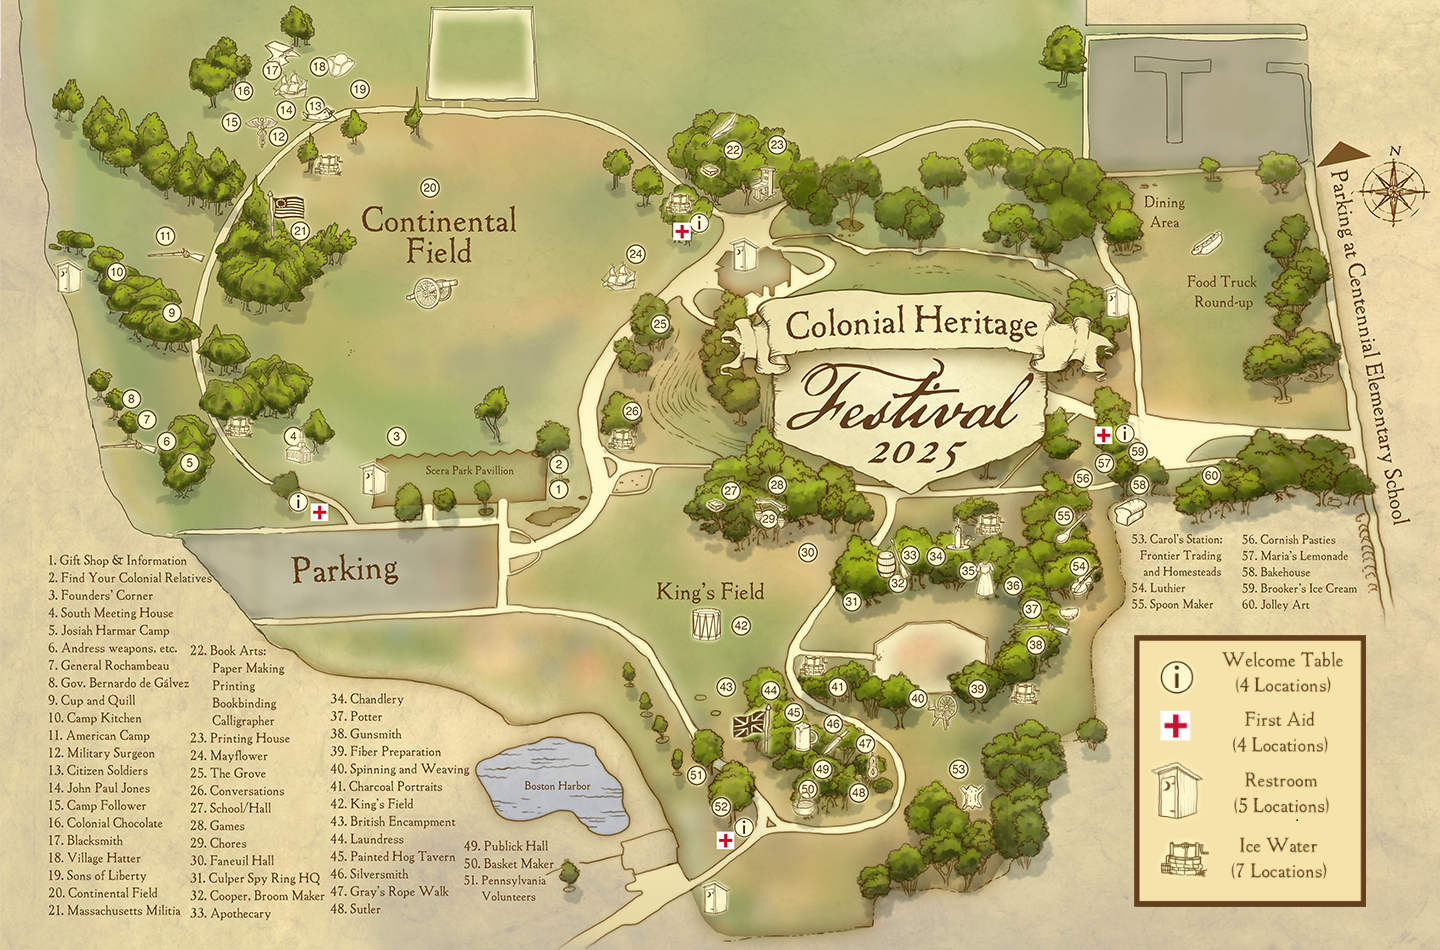
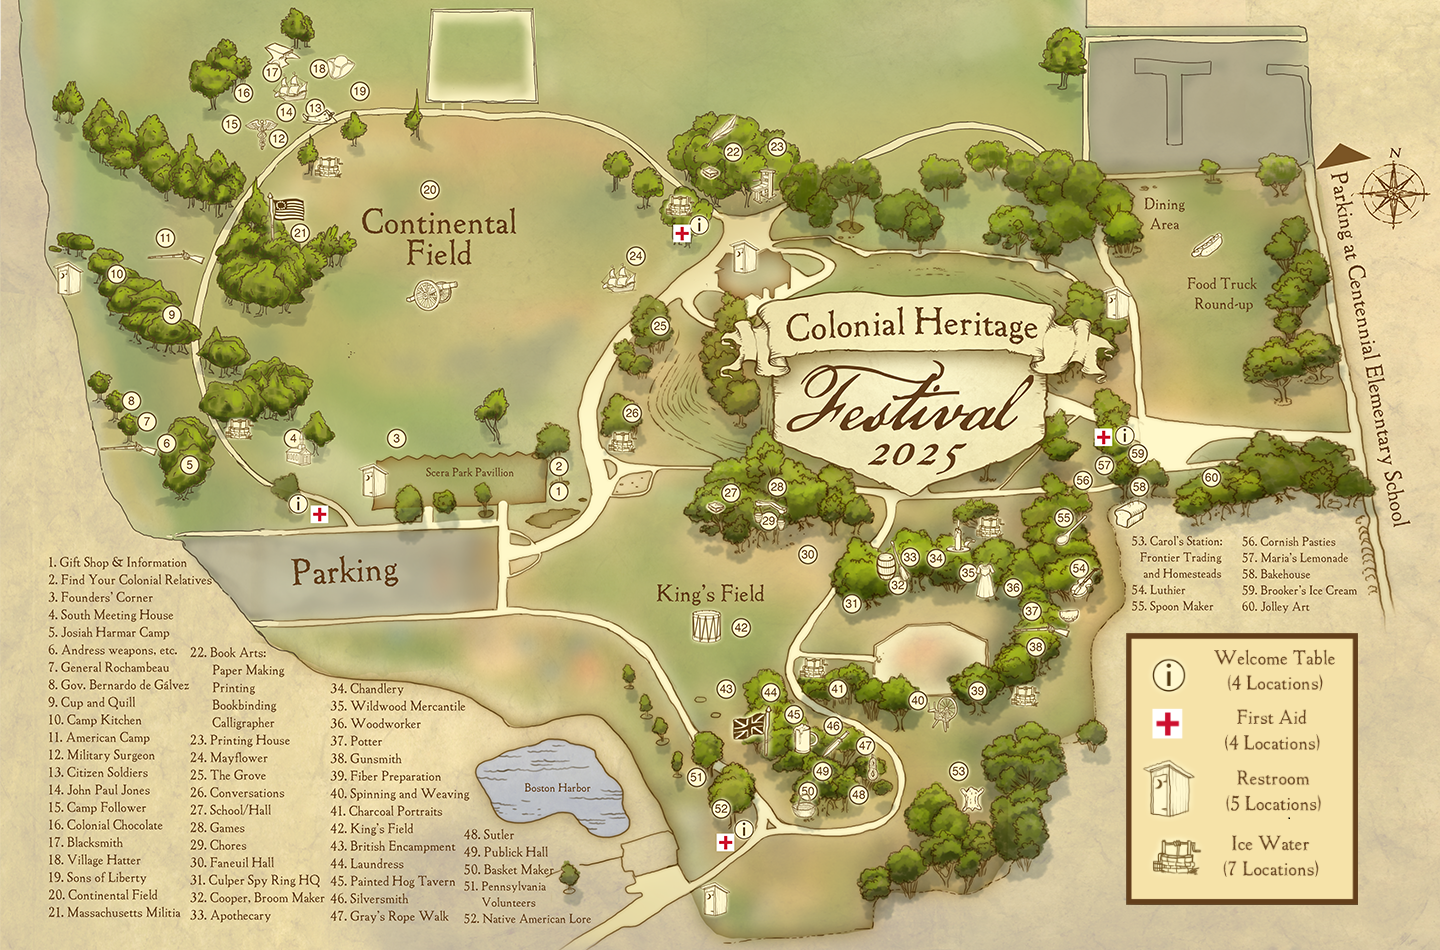
updated

diff --git a/index.html b/index.html
@@ -11,66 +11,66 @@
     <script>
 function make_map(){
 
-add_area('46,551,192,565','480','557','Gift Shop & Information')					
-add_area('46,568,213,584','455','556','Find Your Colonial Relatives')					
-add_area('48,586,160,602','428','395','Founders’ Corner')					
-add_area('47,604,175,618','428','292','South Meeting House')					
-add_area('46,620,172,637','454','188','Josiah Harmar Camp')					
-add_area('47,638,181,656','433','167','Andress weapons, etc.')					
-add_area('45,655,174,672','410','146','General Rochambeau')					
-add_area('47,671,193,689','390','132','Gov. Bernardo de Gálvez')					
-add_area('46,691,140,705','303','170','Cup and Quill')					
-add_area('46,708,146,725','264','116','Camp Kitchen')					
-add_area('45,725,153,743','227','164','American Camp')					
-add_area('46,744,156,759','128','278','Military Surgeon')					
-add_area('46,760,151,778','98','314','Citizen Soldiers')					
-add_area('47,779,163,795','101','285','John Paul Jones')					
-add_area('47,795,152,811','112','232','Camp Follower')					
-add_area('45,814,167,829','82','241','Colonial Chocolate')					
-add_area('46,831,131,847','61','271','Blacksmith')					
-add_area('45,849,146,864','59','318','Village Hatter')					
-add_area('45,866,152,882','82','359','Sons of Liberty')					
-add_area('45,884,163,898','248','374','Continental Field')					
-add_area('46,901,130,918','134','687','Bookbinder')					
-add_area('202,661,300,677','127','749','Paper Making')					
-add_area('203,678,286,694','166','764','Print Shop')					
-add_area('204,697,285,712','245','636','Mayflower')					
-add_area('202,712,289,730','315','658','The Grove')					
-add_area('204,730,305,747','402','632','Conversations')					
-add_area('204,748,292,763','482','730','School/Hall')					
-add_area('202,765,265,779','476','776','Chores')					
-add_area('204,784,264,796','509','768','Games')					
-add_area('204,800,295,814','543','807','Faneuil Hall')					
-add_area('202,818,340,835','592','850','Culper Spy Ring HQ')					
-add_area('204,837,345,851','574','895','Cooper, Broom Maker')					
-add_area('204,854,291,870','546','910','Apothecary')					
-add_area('203,869,285,887','549','935','Chandlery')					
-add_area('203,888,344,904','562','969','Wildwood Mercantile')					
-add_area('200,906,304,921','576','1014','Woodworker')					
-add_area('354,681,415,697','600','1032','Potter')					
-add_area('355,700,431,715','636','1035','Gunsmith')					
-add_area('354,714,471,730','681','975','Fiber Preparation')					
-add_area('352,734,496,751','689','917','Spinning and Weaving')					
-add_area('352,750,469,767','679','837','Charcoal Portraits')					
-add_area('356,767,445,783','617','741','King\'s Field')					
-add_area('353,786,483,802','677','726','British Encampment')					
-add_area('355,801,436,818','682','770','Laundress')					
-add_area('353,820,485,836','705','793','Painted Hog Tavern')					
-add_area('352,839,442,853','714','834','Silversmith')					
-add_area('353,855,480,872','734','865','Gray\'s Rope Walk')					
-add_area('355,871,442,889','768','850','Calligrapher')					
-add_area('353,889,446,905','762','821','Publick Hall')					
-add_area('354,907,450,926','781','807','Basket Maker')					
-add_area('1129,525,1183,540','766','697','Sutler')					
-add_area('1130,541,1225,558','798','720','Native Lore')					
-add_area('1130,559,1227,607','758','958','Carol\'s Station: Frontier Trading and Homesteads')					
-add_area('1129,605,1192,621','557','1078','Luthier')					
-add_area('1247,523,1341,539','507','1063','Spoon Maker')					
-add_area('1247,539,1347,556','469','1082','Cornish Pasties')					
-add_area('1247,556,1359,570','454','1102','Maria’s Lemonade')					
-add_area('1248,571,1322,587','476','1137','Bakehouse')					
-add_area('1245,589,1368,605','443','1136','Brooker\'s Ice Cream')					
-add_area('1247,605,1320,621','466','1209','Jolley Art')					
+add_area('46,551,192,565','480','557','Gift Shop & Information')
+add_area('46,568,213,584','455','556','Find Your Colonial Relatives')
+add_area('48,586,160,602','428','395','Founders’ Corner')
+add_area('47,604,175,618','428','292','South Meeting House')
+add_area('46,620,172,637','454','188','Josiah Harmar Camp')
+add_area('47,638,181,656','433','167','Andress weapons, etc.')
+add_area('45,655,174,672','410','146','General Rochambeau')
+add_area('47,671,193,689','390','132','Gov. Bernardo de Gálvez')
+add_area('46,691,140,705','303','170','Cup and Quill')
+add_area('46,708,146,725','264','116','Camp Kitchen')
+add_area('45,725,153,743','227','164','American Camp')
+add_area('46,744,156,759','128','278','Military Surgeon')
+add_area('46,760,151,778','98','314','Citizen Soldiers')
+add_area('47,779,163,795','101','285','John Paul Jones')
+add_area('47,795,152,811','112','232','Camp Follower')
+add_area('45,814,167,829','82','241','Colonial Chocolate')
+add_area('46,831,131,847','61','271','Blacksmith')
+add_area('45,849,146,864','59','318','Village Hatter')
+add_area('45,866,152,882','82','359','Sons of Liberty')
+add_area('46,883,167,900','178','429','Continental Field')
+add_area('45,900,182,916','221','299','Massachusetts Militia')
+add_area('187,643,295,727','141','731','Book Arts')
+add_area('185,727,296,746','136','776','Printing House')
+add_area('188,746,281,763','246','635','Mayflower')
+add_area('187,763,276,779','315','659','The Grove')
+add_area('187,781,287,797','401','631','Conversations')
+add_area('187,798,281,814','482','729','School/Hall')
+add_area('187,816,252,833','474','775','Games')
+add_area('188,834,252,849','511','768','Chores')
+add_area('186,852,283,866','542','807','Faneuil Hall')
+add_area('187,869,325,887','591','851','Culper Spy Ring HQ')
+add_area('189,886,325,905','575','896','Cooper, Broom Maker')
+add_area('189,903,320,922','545','909','Apothecary')
+add_area('326,674,420,694','547','935','Chandlery')
+add_area('326,694,470,714','577','1012','Wildwood Mercantile')
+add_area('329,712,429,732','576','1013','Woodworker')
+add_area('329,732,388,747','601','1031','Potter')
+add_area('327,749,410,763','636','1035','Gunsmith')
+add_area('327,766,447,784','682','978','Fiber Preparation')
+add_area('328,782,471,800','690','917','Spinning and Weaving')
+add_area('325,801,453,817','678','837','Charcoal Portraits')
+add_area('327,818,421,834','618','741','King\'s Field')
+add_area('330,836,458,852','678','726','British Encampment')
+add_area('327,852,416,871','681','770','Laundress')
+add_area('327,869,457,885','703','795','Painted Hog Tavern')
+add_area('327,888,415,905','715','832','Silversmith')
+add_area('324,905,452,926','735','865','Gray\'s Rope Walk')
+add_area('458,821,518,841','784','857','Sutler')
+add_area('461,842,553,859','760','822','Publick Hall')
+add_area('460,858,557,876','780','808','Basket Maker')
+add_area('461,875,552,908','767','698','Pennsylvania Volunteers')
+add_area('458,909,592,923','799','723','Native American Lore')
+add_area('1123,530,1229,578','761','957','Carol\'s Station: Frontier Trading and Homesteads')
+add_area('1128,580,1192,596','558','1077','Luthier')
+add_area('1127,596,1218,613','507','1063','Spoon Maker')
+add_area('1238,529,1346,548','470','1081','Cornish Pasties')
+add_area('1240,547,1355,562','454','1102','Maria’s Lemonade')
+add_area('1241,564,1317,580','474','1138','Bakehouse')
+add_area('1240,580,1361,596','443','1137','Brooker’s Ice Cream')
+add_area('1238,596,1323,617','467','1211','Jolley Art')
 
 
 
